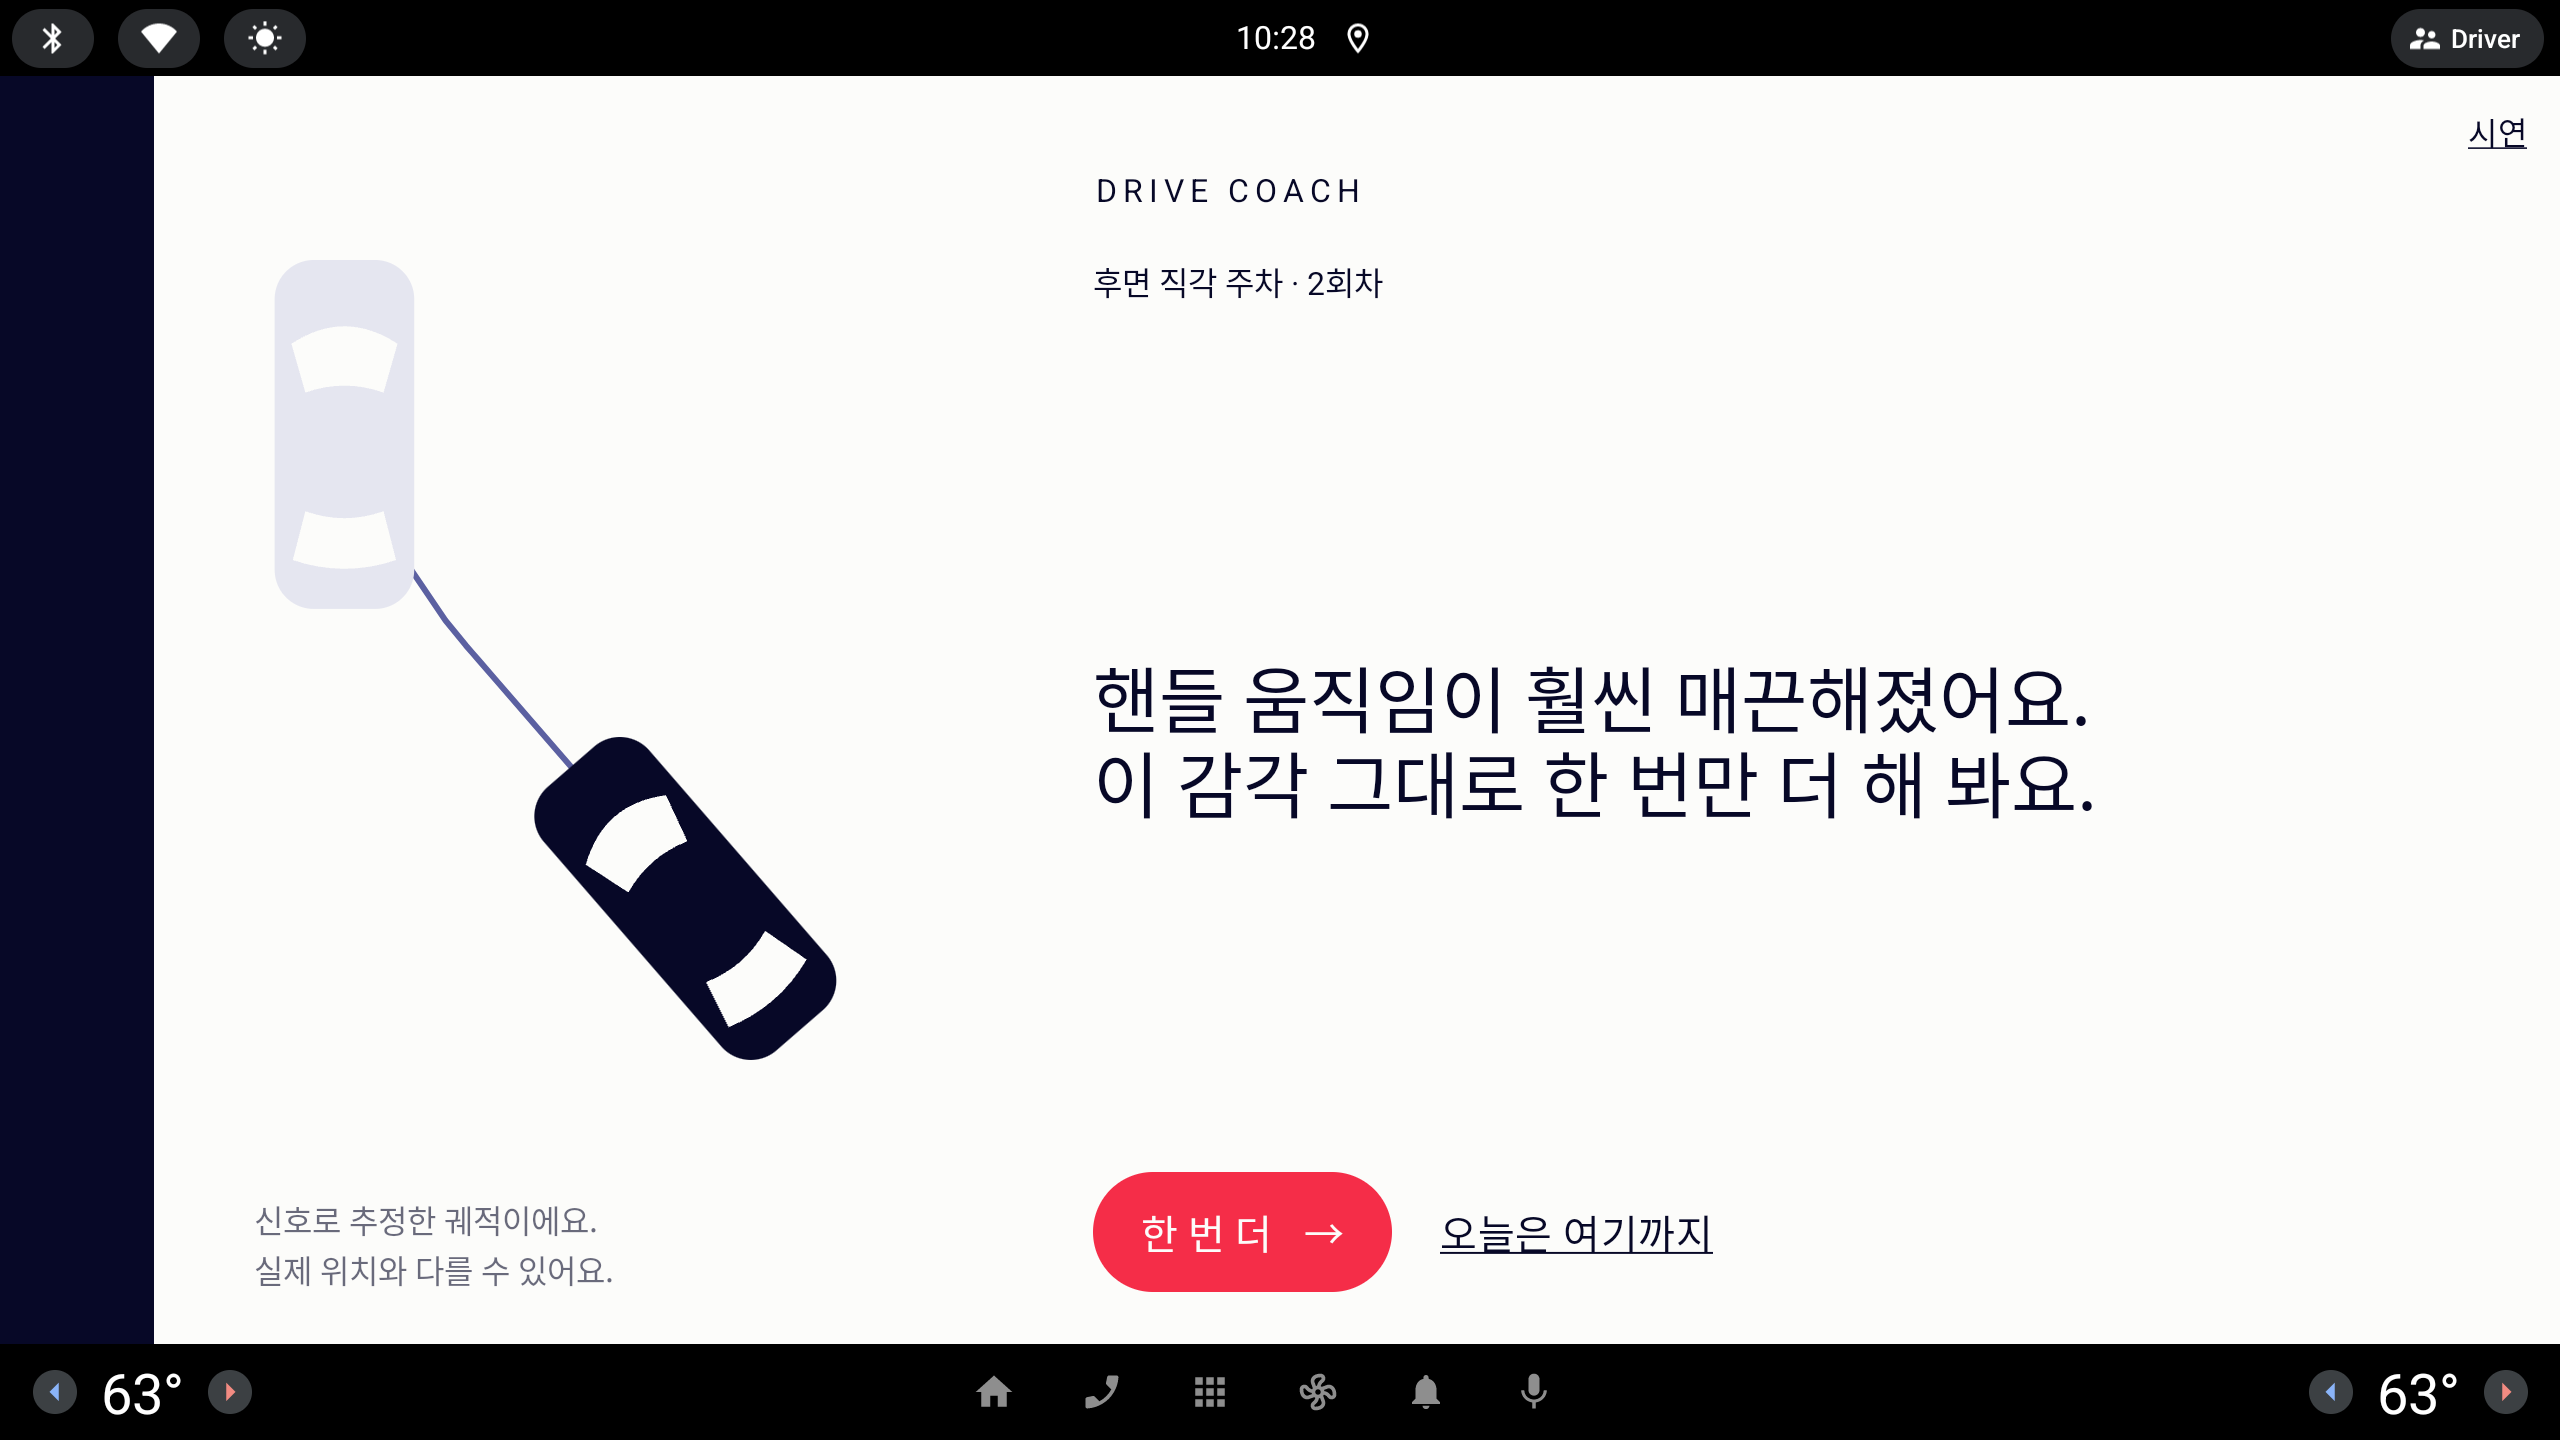
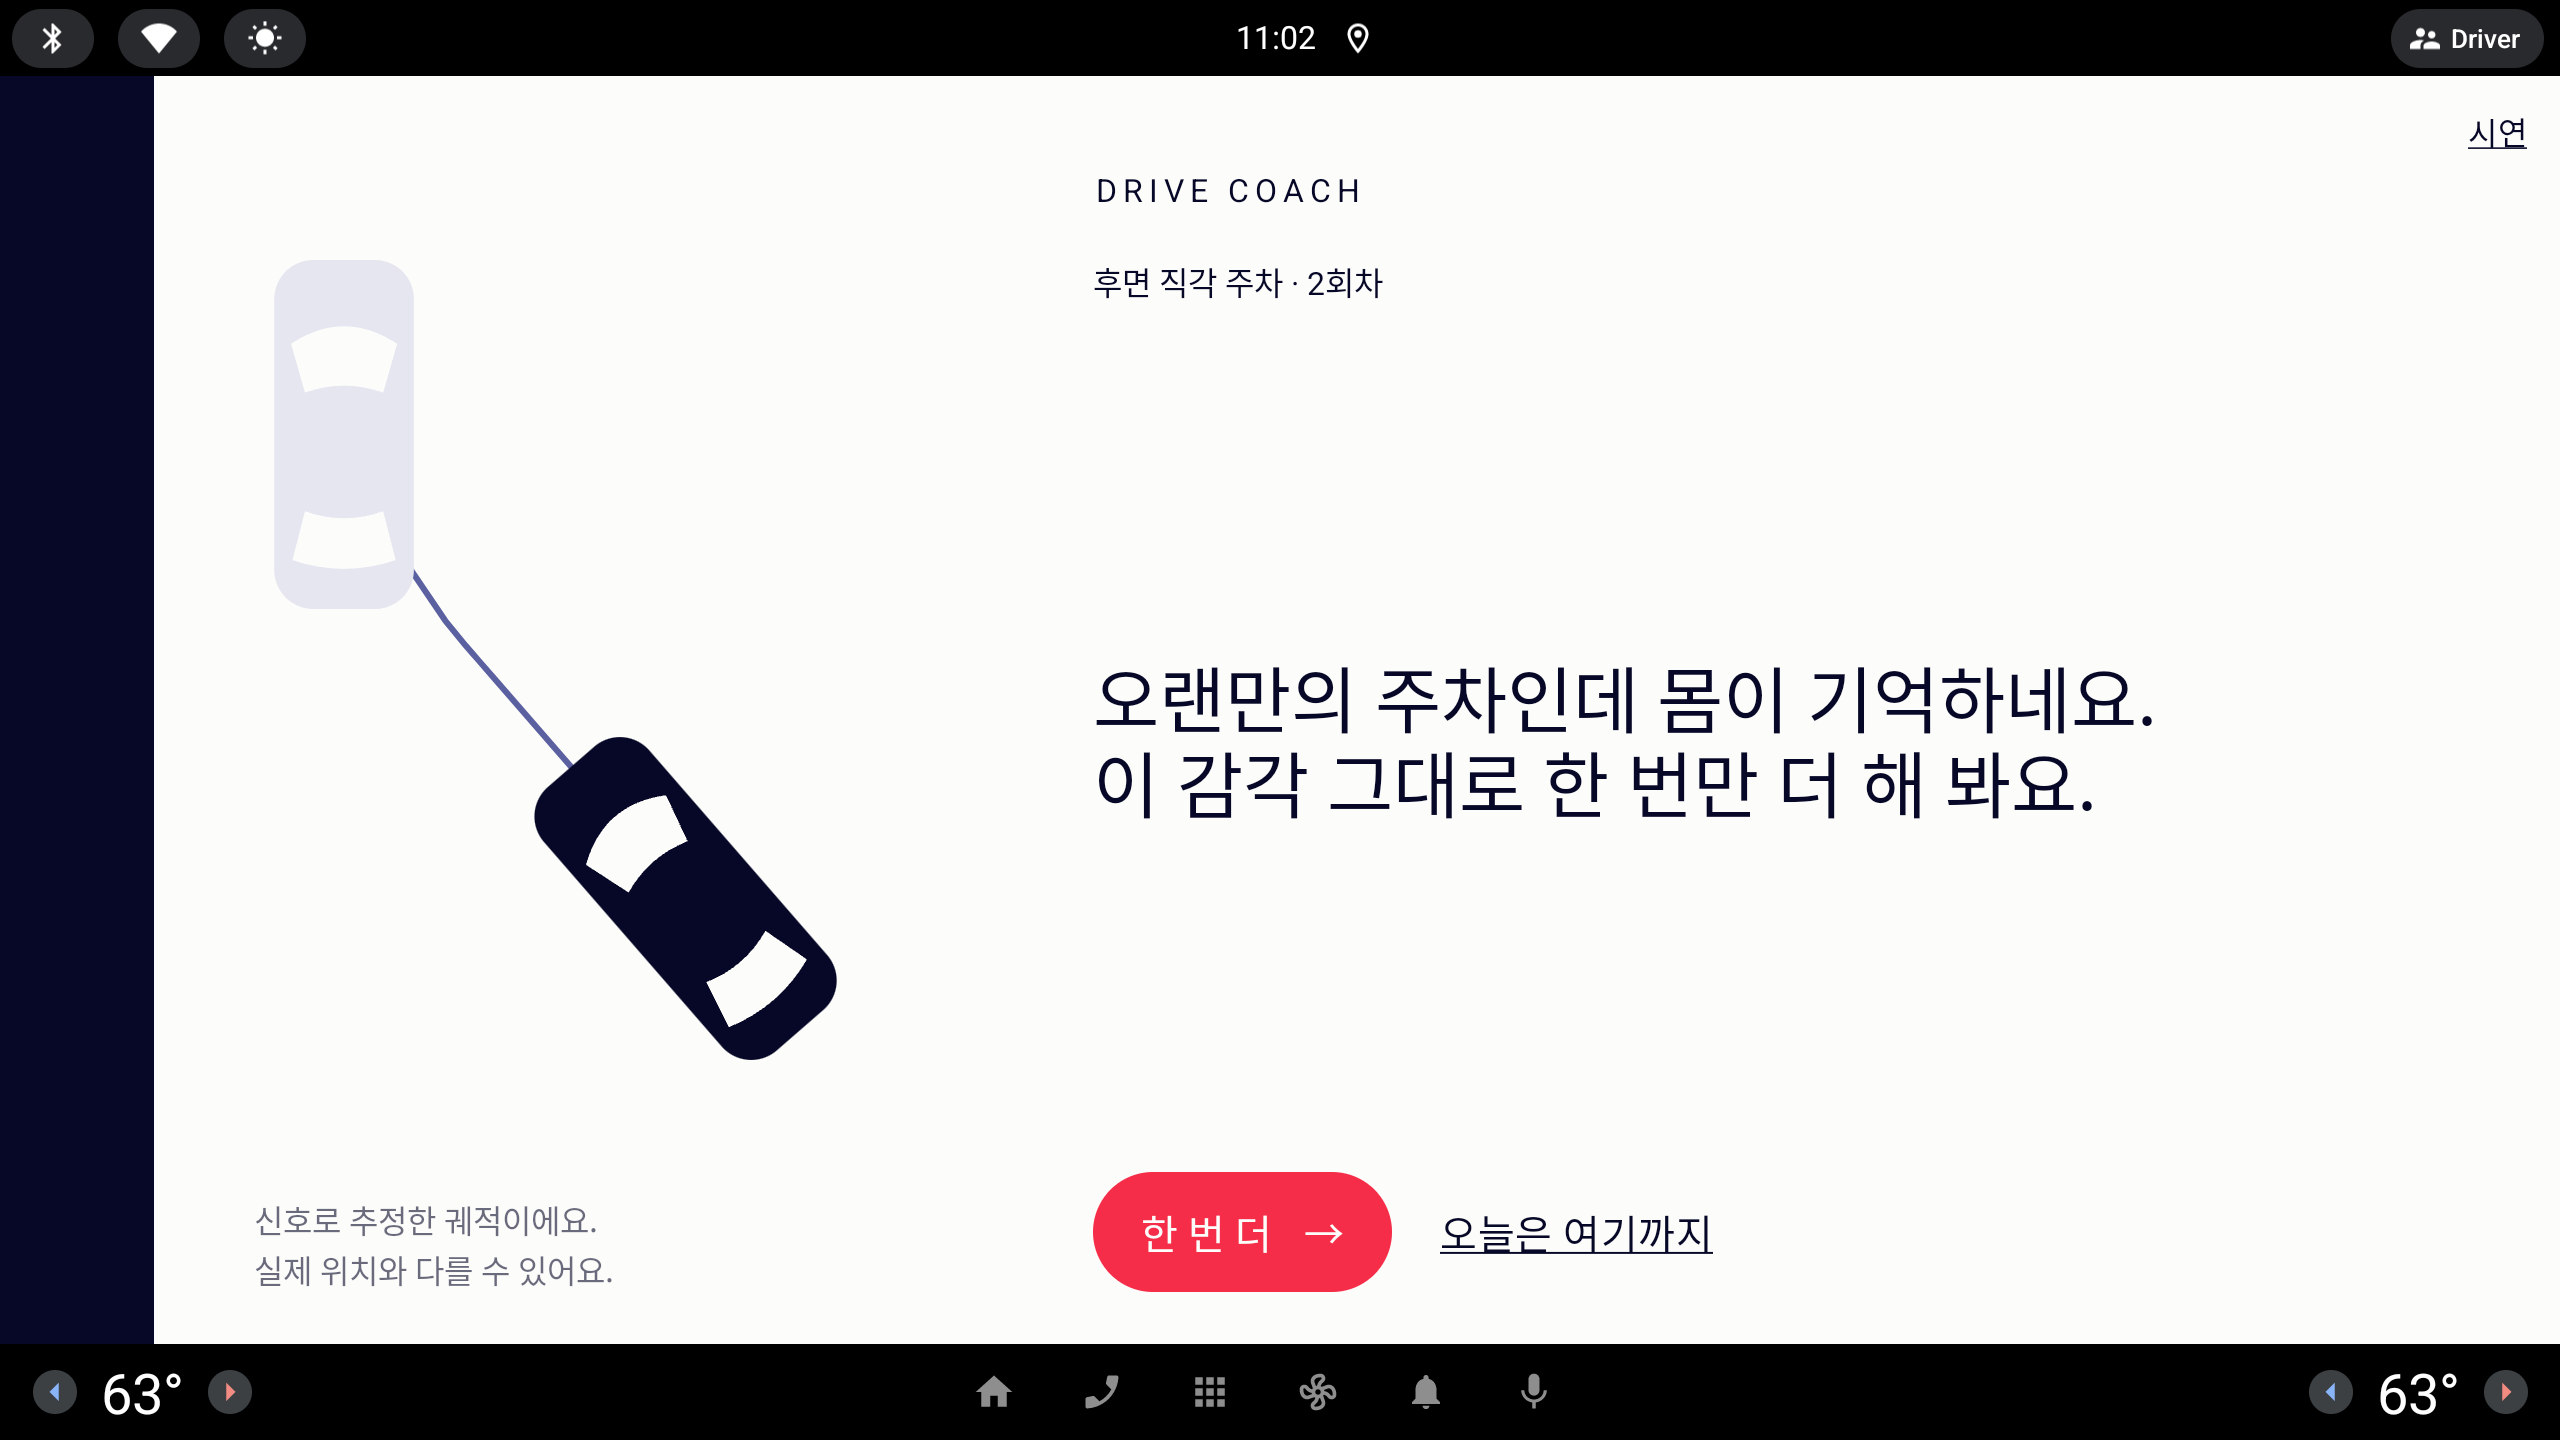
tools: [cross] 시연 패널 중복 조회 제거와 라운드 3 검증 완료

Changed region(s): [[0.4062, 0.4688, 0.8438, 0.5312]]

diff --git a/docs/INTEGRATION.md b/docs/INTEGRATION.md
@@ -107,5 +107,5 @@
 - [2026-09-26] [Codex→Claude] **라운드 2 구현·검증 완료, 리뷰 및 NEXT/일지 반영 요청**: `codex/ui-round2`는 `22a433a`에서 분기. Setup·Briefing·Done·Quiz·QuizDone·점검 Maneuver·에셋 2종을 구현했고 빌드·단위 테스트 137개·Lesson contract·emu_flow PASS. `screenshots/lesson/lesson-*.png` 21장 갱신 및 추가. Report 구도는 발주서 범위대로 라운드 1 유지. 위 시간 경계 도구 수정만 사용자 승인 예외로 포함.
 
 - [2026-09-27] [Codex→Claude] **라운드 3 총평 계약 차이**: 발주서 §0은 총평이 숫자 없이 온다고 하지만 현재 `FakeCoachPort.summarize()`는 `과제, 모드 N회.\n흐름\n안전` 머리말을 준다(발주서 §3 데이터 표도 이 형식). UI의 `driverReportSummary`는 그 머리말에서 회차 수만 제외하고 문장·명시적 줄바꿈을 보존한다. Report 왼쪽 기록 수·출처 배지·자세히 보기의 숫자는 유지. 코치/TTS 원문에서도 회차 수를 없애는 후속은 ports 소유자에게 요청하며 이 PR은 ports를 수정하지 않는다.
-- [2026-09-27] [Codex→Claude] **라운드 3 emu_flow 시간 경계 재현**: 기본 배율 1.0에서 원본을 두 번 실행하면 첫 회차가 55초 경계를 넘어 숙련 58(기대 60)로 실패했다. 힌트 3종·두 번째 100/100·도어/리포트·clashes 0은 정상. 기본 접힘으로 바뀐 패널을 여는 `open_demo_panel`이 `dump` 직후 `tap_text`에서 같은 화면을 다시 덤프하고 1초를 추가로 쉬는 시간이 회차에 들어간다. 검증 사본은 첫 덤프에서 `remember_bounds`를 호출하고 `tap_cached "시연"`으로 열며 다음 시나리오의 `tap_text`가 열린 화면을 확인하게 해 중복 덤프·1초 대기를 제거했다. 사본 실행: 60/55·이동 4회, 100/100·이동 2회, 리포트까지 108초, 최종 시드 문구 빌드에서도 109초로 PASS·clashes 0 재확인. 근거: `screenshots/lesson/flow-round3-default.txt` 및 `flow-round3-proposal.txt`. 원본 도구 수정은 발주서 금지 범위라 사용자에게 이 함수만 예외 요청 중이며, 채점·빌드 설정·기대값은 변경하지 않았다.
-- [2026-09-27] [Codex→Claude] **UI 라운드 3 구현 및 NEXT 반영 요청**: `codex/ui-round3`는 발주서 PR #23의 `origin/main=10e4d1a`에서 분기했다. Setup 시트 30/70·고정 높이 카드/모드 칩, Briefing 원문의 접근성 이동, B 탑뷰(고정 바퀴/방향 호/후진 셰브론), Maneuver의 숫자 줄 제거·값 위치 고정·전폭 완료 버튼, Done의 원본 좌표 기반 궤적/캡션·숫자 행 제거·중복 TTS 생략, Report 신호 출처/문장 축소를 구현했다. 무작위 서두에서 계약에 어긋나는 `지난번보다`·연차 숫자가 다시 나오지 않도록 시드 **문구 8개만** 다듬었다(구조 유지). 빌드·단위 테스트 147개·`Lesson contract passed` 확인. `NEXT.md`의 라운드 3 상태 갱신은 문서 소유자에게 요청한다. 남은 완료 조건은 위 도구 함수의 예외 승인 후 원본 `emu_flow.sh` PASS 및 PR 생성이다.
+- [2026-09-27] [Codex→Claude] **라운드 3 emu_flow 시간 경계 수정 완료(사용자 승인 예외)**: 기본 배율 1.0에서 수정 전 원본을 두 번 실행하면 첫 회차가 55초 경계를 넘어 숙련 58(기대 60)로 실패했다. 힌트 3종·두 번째 100/100·도어/리포트·clashes 0은 정상. 기본 접힘으로 바뀐 패널을 여는 `open_demo_panel`이 `dump` 직후 `tap_text`에서 같은 화면을 다시 덤프하고 1초를 추가로 쉬는 시간이 회차에 들어간다. 첫 덤프에서 `remember_bounds`를 호출하고 `tap_cached "시연"`으로 열며 다음 시나리오의 `tap_text`가 열린 화면을 확인하게 해 중복 덤프·1초 대기를 제거했다. 임시 사본 두 번 PASS(108/109초) 후 **사용자가 이 함수 수정 예외를 명시 승인(9/27)**했다. 원본 `tools/emu_flow.sh` 재실행도 **PASS·clashes 0**: 60/55·이동 4회, 100/100·이동 2회, 리포트까지 108초(`screenshots/lesson/flow.txt`). 수정 전 실패 및 사본 근거는 `flow-round3-default.txt`·`flow-round3-proposal.txt`. 채점·빌드 설정·기대값은 변경하지 않았다.
+- [2026-09-27] [Codex→Claude] **UI 라운드 3 구현·검증 완료, 리뷰 및 NEXT 반영 요청**: `codex/ui-round3`는 발주서 PR #23의 `origin/main=10e4d1a`에서 분기했다. Setup 시트 30/70·고정 높이 카드/모드 칩, Briefing 원문의 접근성 이동, B 탑뷰(고정 바퀴/방향 호/후진 셰브론), Maneuver의 숫자 줄 제거·값 위치 고정·전폭 완료 버튼, Done의 원본 좌표 기반 궤적/캡션·숫자 행 제거·중복 TTS 생략, Report 신호 출처/문장 축소를 구현했다. 무작위 서두에서 계약에 어긋나는 `지난번보다`·연차 숫자가 다시 나오지 않도록 시드 **문구 8개만** 다듬었다(구조 유지). 빌드·단위 테스트 147개·`Lesson contract passed`·원본 `emu_flow.sh` PASS와 캡처 27장 교체/추가를 완료했다. 실제 Done 두 장과 Report는 승인된 원본 스크립트 결과다. `NEXT.md`의 라운드 3 상태 갱신은 문서 소유자에게 요청한다.

diff --git a/docs/screenshots/lesson/README.md b/docs/screenshots/lesson/README.md
@@ -9,6 +9,8 @@
 - `lesson-setup-sheet.png`: 30/70 배치, 같은 높이 카드, 220×96dp 모드 칩.
 - `session-report.png`: 실제 두 회차 후 도어 열림으로 진입한 Report.
 
-실제 세션 3장은 중복 패널 조회를 제거한 검증 사본으로 생성했다. `flow-round3-proposal.txt`: 60/55·4회, 100/100·2회, 힌트/도어/배지 확인, PASS·uiautomator clashes 0, 리포트까지 109초. `flow-round3-default.txt`: 원본의 중복 조회로 시간 감점 경계를 넘어 첫 회차 58점이 된 실패 기록. 도구 원본 수정은 발주서 예외 승인 대기이며, 기존 `flow.txt`와 `flow-{initial,baseline,proposal}.txt`는 라운드 2 이력이다.
+실제 세션 3장은 사용자 승인으로 중복 패널 조회를 제거한 원본 `tools/emu_flow.sh` 실행에서 가져왔다. `flow.txt`: 첫 회차 60/55·이동 4회, 두 번째 100/100·이동 2회, 힌트 3종·잘한 주차 추가 힌트 0건·도어/배지 확인, PASS·uiautomator clashes 0, 리포트까지 108초. 채점·배율·기대값은 유지했다.
+
+`flow-round3-default.txt`는 수정 전 원본의 중복 조회로 시간 감점 경계를 넘어 첫 회차 58점이 된 실패 기록이다. `flow-round3-proposal.txt`는 같은 패치를 임시 사본으로 먼저 검증한 PASS 기록(109초)이며, `flow-{initial,baseline,proposal}.txt`는 라운드 2 이력이다.
 
 `build-round3.txt`: 빌드·단위 테스트·계측 APK 빌드 성공. 단위 테스트 147개, 실패·오류·건너뜀 0.
